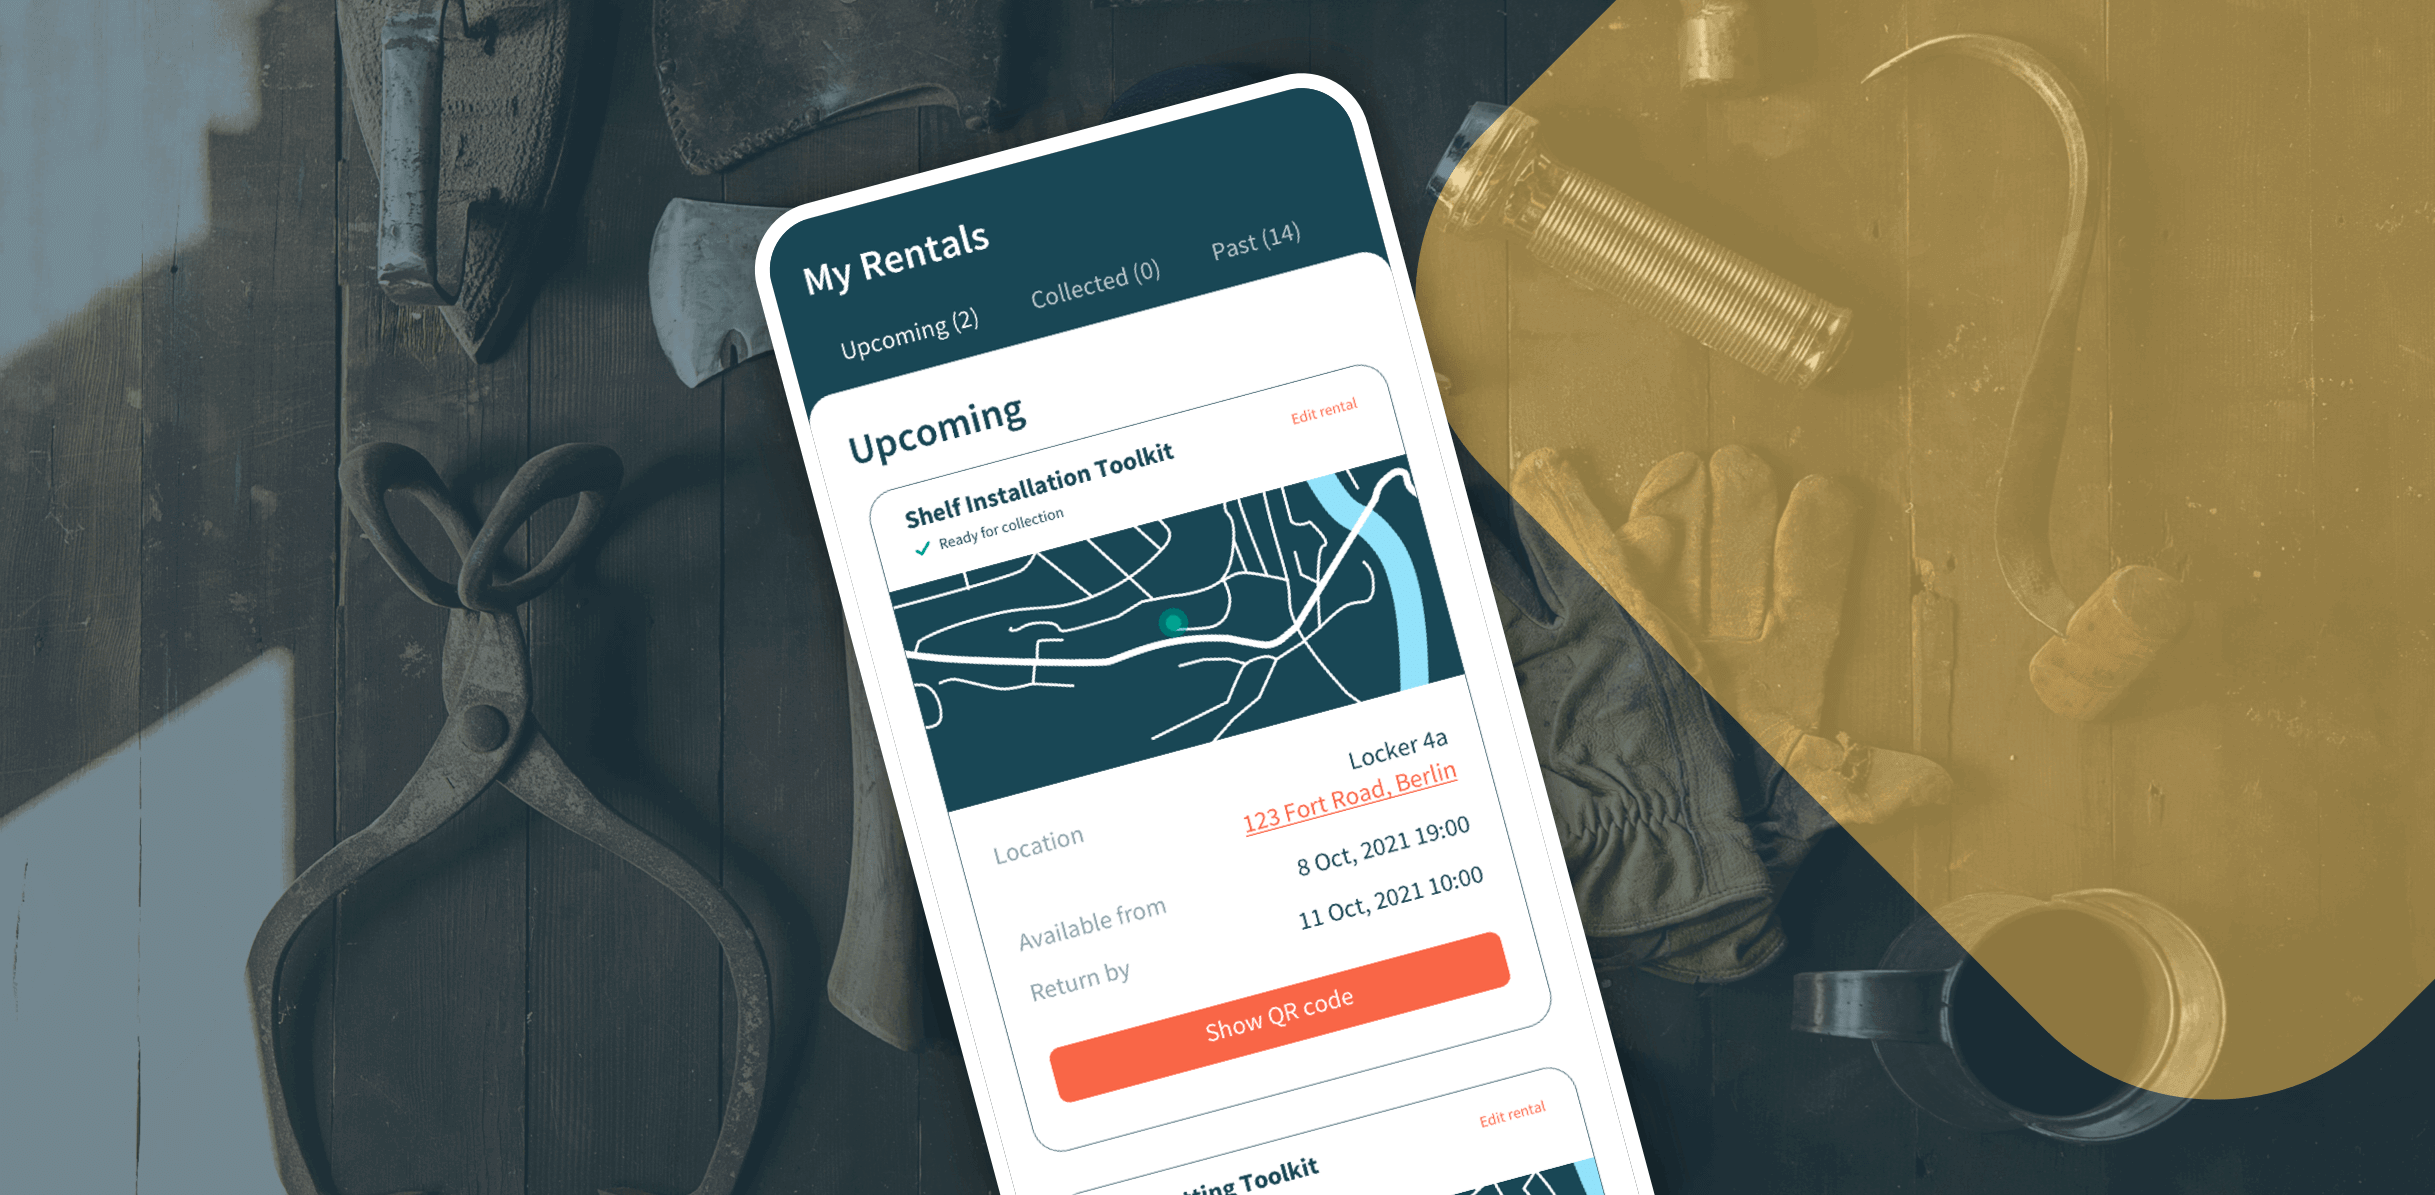
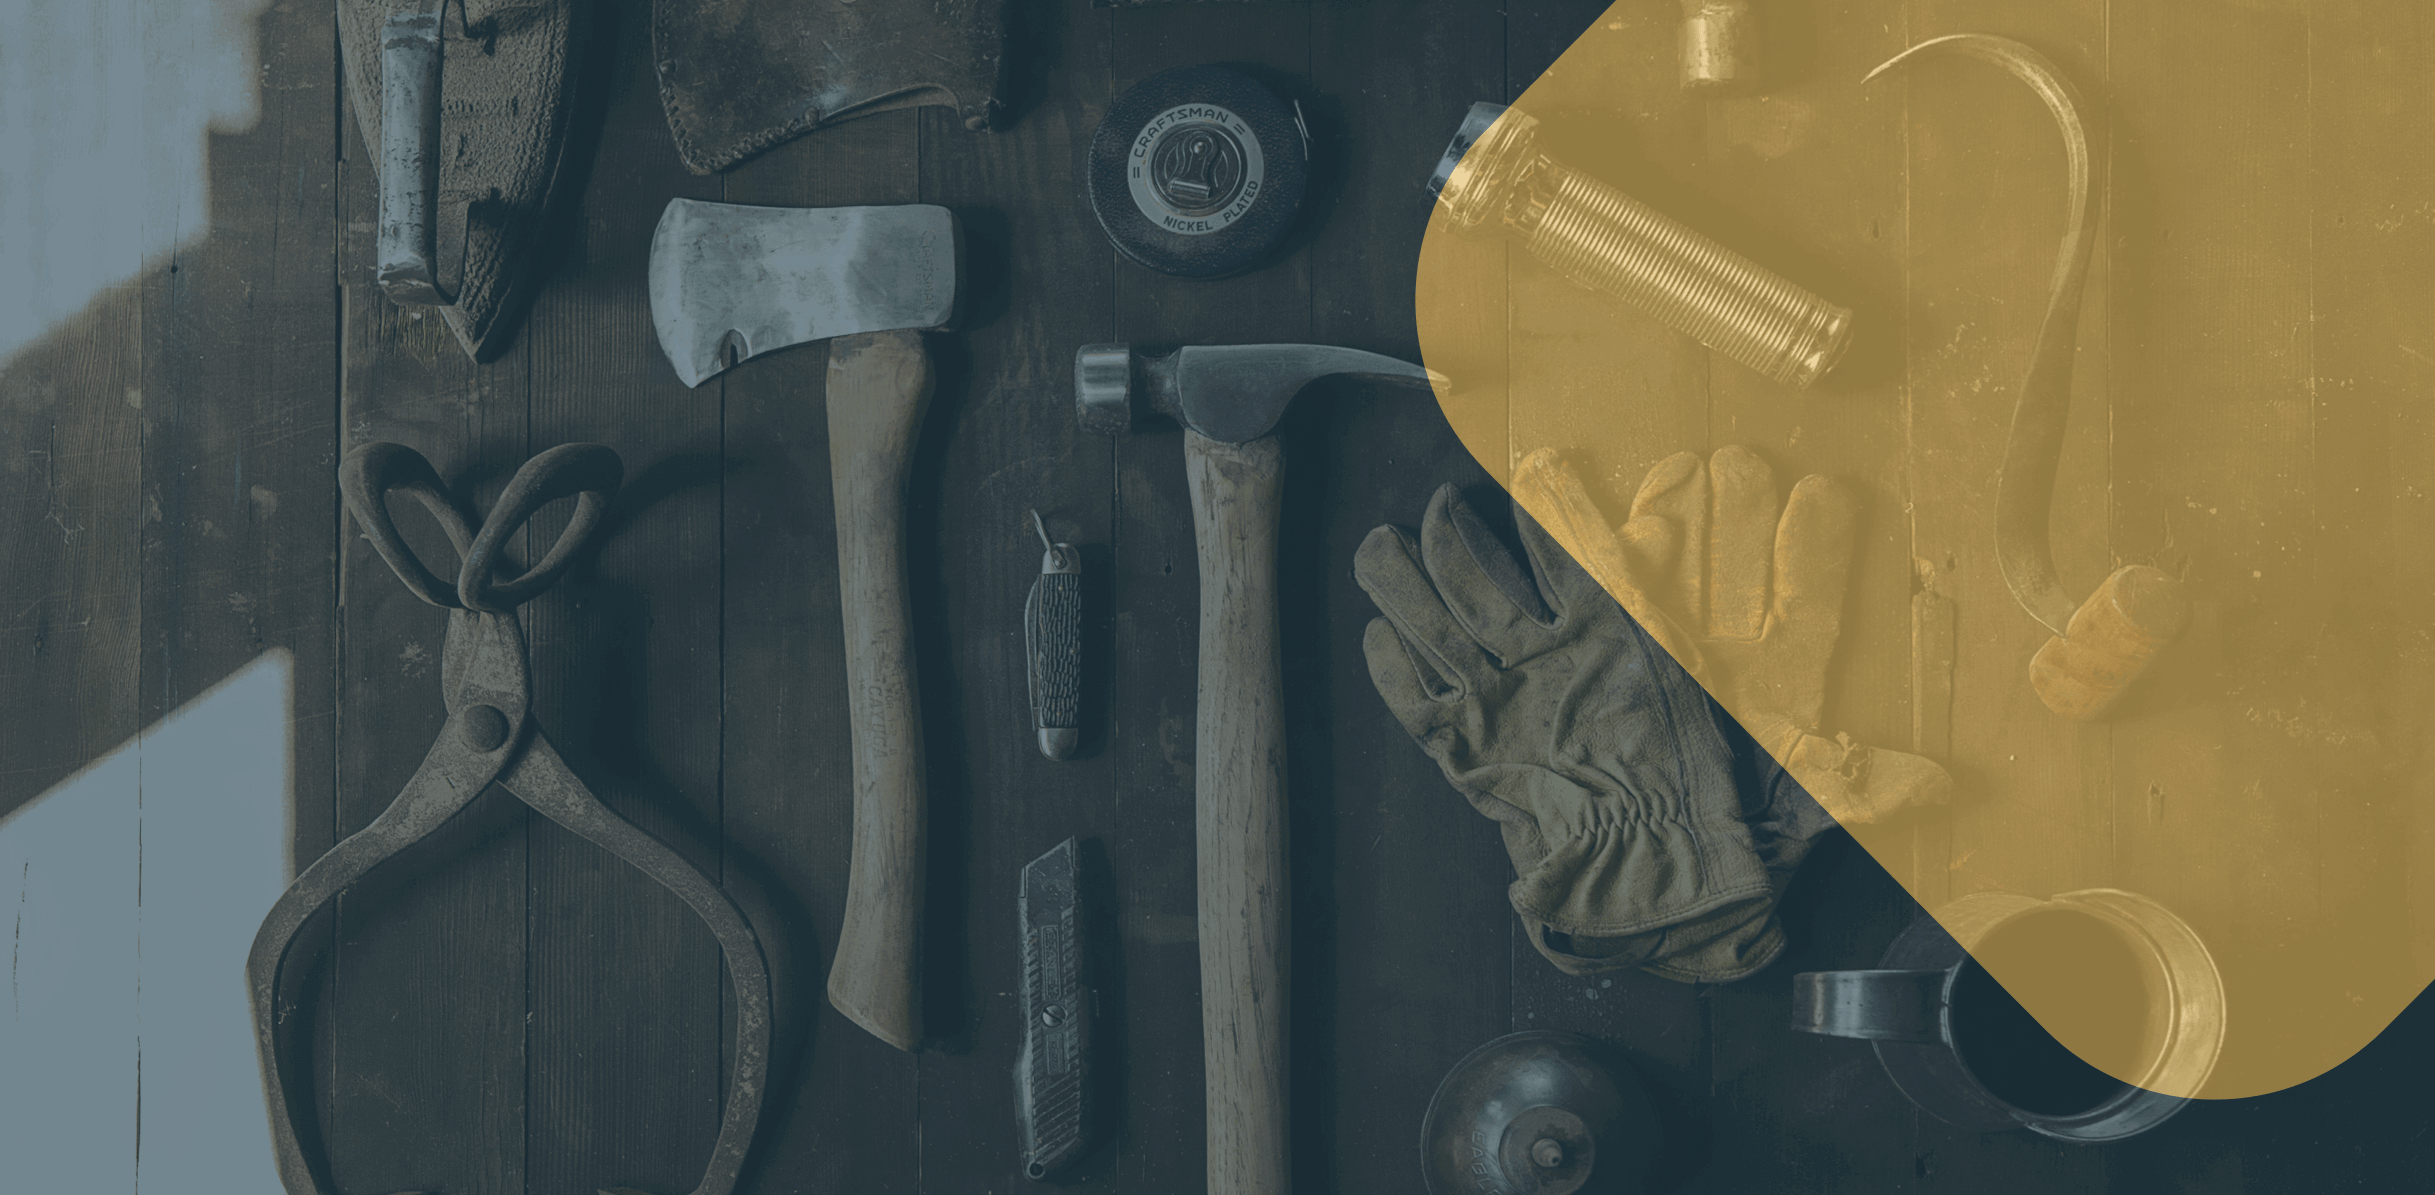
New case study layout

Changed region(s): [[0.3121, 0.0619, 0.6867, 1.0]]

diff --git a/pages/work/designflows.js b/pages/work/designflows.js
@@ -7,47 +7,58 @@ function CaseStudy() {
     return (
         <>
 
-            <div>                
-            <div className="container max-w-full h-[70vh] bg-[url('/dfbg.png')] bg-cover">
-            <div className="flex flex-row flex-wrap content-center max-w-screen-md mx-auto place-content-center h-full">
-                    <div className="flex flex-col">
+            <div>
+                <div className="container max-w-full h-[70vh] bg-[url('/dfbg.png')] bg-cover">
+                    <div className="flex flex-row flex-wrap content-center max-w-screen-md mx-auto place-content-center h-full">
+                        <div className="flex flex-col">
                             <Zoom>
-                                <Image src="/dfbg.png" layout="intrinsic" width="1600" height="750" alt="Small mock of end product" />
+                                <Image src="/dfMocks.png" layout="intrinsic" width="2911" height="1700" alt="Small mock of end product" />
                             </Zoom>
                         </div>
                     </div>
-                </div>                
+                </div>
                 <div className="container max-w-screen-md mx-auto px-6 pt-10 pb-10">
                     <div className="text-2xl md:text-5xl leading-7 tracking-tight font-semibold">Designflows</div>
                     <p className="pt-4">Homely &bull; 8 Oct 2021 7p.m. - 11 Oct 2021 9a.m.</p>
                 </div>
                 <div className="container max-w-screen-md mx-auto px-6">
                     <div className="grid grid-cols-1 md:grid-cols-4 gap-5 md:gap-10 auto-rows-auto mb-10">
-                    <div className="col-span-3">                            
-                        <p>This was a competion brief that had to be completed in weekend.</p>
-                        <p>I received access to the brief at 7pm Friday night and had to submit my high fidelity mocks by Monday at 9am.</p>
+                        <div className="col-span-3">
+                            <p>This was a competion brief that had to be completed in weekend.</p>
+                            <p>I received access to the brief at 7pm Friday night and had to submit my high fidelity mocks by Monday at 9am.</p>
                         </div>
-                        <div className="col-span-1">                                                  
-                            <p><b>Role:</b><br/> Sole UX designer</p>
-                            <p><b>Skills used:</b><br/> UX/UI<br/>User Research<br/>App icon design<br/>Poster design</p>
+                        <div className="col-span-1">
+                            <p><b>Role:</b><br /> Sole UX designer</p>
+                            <p><b>Skills used:</b><br /> UX/UI<br />User Research<br />App icon design<br />Poster design</p>
                         </div>
+                    </div>
+                </div>
+                <div className="bg-white">
+                    <div className="container max-w-screen-md mx-auto px-6">
+                        <div className="grid grid-cols-1 md:grid-cols-4 gap-5 md:gap-10 auto-rows-auto">
+
+                            <div className="col-span-4 py-10 mt-16">
+                                <center>
+                                <Zoom>
+                                    <Image src="/designflows.png" layout="intrinsic" width="197" height="107" alt="Designflows 2021 logo" />
+                                </Zoom>
+                                </center>
+                                <h2 className="pt-16">Overview</h2>
+                                <p>The brief requested a new mobile app to be designed to allow a user to hire a toolkit from a location nearby for a specific DIY task.</p>
+                                <p>For example I may need to put some shelves up, I would visit this app and find a location to pick up a toolkit containing the required tools.</p>
+                                <p>The brief specified 3 specific pages that required designing:</p>
+                                <p>&bull; <b>Toolkit rental</b> - This had to include a search bar<br />
+                                    &bull; <b>My rentals</b> - Manage and track bookings<br />
+                                    &bull; <b>How it works</b> - Instructions on how to collect a toolkit</p>
+                                <p className="mb-16">As well as an app icon and a poster that would present the screens.</p>
+                            </div>
                         </div>
-                        </div>  
-                        <div className="container max-w-screen-md mx-auto px-6">
+                    </div>
+                </div>
+                <div className="container max-w-screen-md mx-auto px-6">
                     <div className="grid grid-cols-1 md:grid-cols-4 gap-5 md:gap-10 auto-rows-auto">
-                        
-                        <div className="col-span-4 pb-10">                   
-                            <center><Zoom>
-                                <Image src="/designflows.png" layout="intrinsic" width="394" height="214" alt="Designflows 2021 logo" />
-                            </Zoom></center>
-                            <h2 className="pt-16">Overview</h2>
-                            <p>The brief requested a new mobile app to be designed to allow a user to hire a toolkit from a location nearby for a specific DIY task.</p>
-                            <p>For example I may need to put some shelves up, I would visit this app and find a location to pick up a toolkit containing the required tools.</p>
-                            <p>The brief specified 3 specific pages that required designing:</p>
-                            <p>&bull; <b>Toolkit rental</b> - This had to include a search bar<br />
-                                &bull; <b>My rentals</b> - Manage and track bookings<br />
-                                &bull; <b>How it works</b> - Instructions on how to collect a toolkit</p>
-                            <p className="mb-16">As well as an app icon and a poster that would present the screens.</p>
+
+                        <div className="col-span-4 py-10 mt-16">
                             <h2>Plan of action</h2>
                             <p>This project was going to be a lot of work, and there was not much time to do it. I decided to spend the friday evening reading through the brief multiple times, I printed the document off and highlighted key points.</p>
                             <p className="mb-16">Once happy I understood what was being asked for I began making a to do list. This would help me work methodically and would make sure I covered everything required of me during this weekend.</p>
@@ -60,28 +71,44 @@ function CaseStudy() {
                             <Zoom>
                                 <Image src="/compResearch.png" layout="intrinsic" width="2000" height="944" alt="Identifying key components in competitor / similar applications allowed me to begun gathering a list of potential components that would be needed." />
                             </Zoom>
-                            <h2 className="pt-16">Brand identity</h2>
+                            </div>
+                    </div>
+                </div>
+                <div className="bg-white">
+                    <div className="container max-w-screen-md mx-auto px-6">
+                        <div className="grid grid-cols-1 md:grid-cols-4 gap-5 md:gap-10 auto-rows-auto">
+
+                            <div className="col-span-4 py-16">
+                            <h2>Brand identity</h2>
                             <p>I decided to spend some time inventing a brand identiy for this project. It meant I was able to create a simple pattern library that I could then deploy much quicker into the final design.</p>
                             <p className="mb-16">I mainly focused on the colour palette and typography. I settled on something that was fairly simple but offered a level of uniqueness.</p>
                             <Zoom>
                                 <Image src="/brandID.png" layout="intrinsic" width="2000" height="1040" alt="Identifying key components in competitor / similar applications allowed me to begun gathering a list of potential components that would be needed." />
                             </Zoom>
-                            <h2 className="pt-16">Initial ideas</h2>
+                            </div>
+                        </div>
+                    </div>
+                </div>
+                <div className="container max-w-screen-md mx-auto px-6">
+                    <div className="grid grid-cols-1 md:grid-cols-4 gap-5 md:gap-10 auto-rows-auto">
+
+                        <div className="col-span-4 pb-10 mt-16">
+                            <h2>Initial ideas</h2>
                             <p>Now I had a basic pattern library I decided to start sketching out some ideas for my app.</p>
                             <p>I had a lot of ideas at this stage and ended up working out a full user flow, even though I would only be working on a couple of screens, this likely cost me some time, but it meant I identified some extra details I could use to enhance the app.</p>
                             <p>I begun with some really rough sketches that I could then iterate on if I felt they had enough potential. This allowed me to complete a lot more sketches in a much shorter amount of time.</p>
                             <p className="mb-16">By Saturday evening I was confident that I had created a sketch that I could work with. I decided to take a break at this point until the next day.</p>
                             <div className="pb-16">
-                            <Zoom>
-                                <Image src="/sketch.png" layout="intrinsic" width="1421" height="1000" alt="An example of sketches completed for the first screen of the app" />
-                            </Zoom>
+                                <Zoom>
+                                    <Image src="/sketch.png" layout="intrinsic" width="1421" height="1000" alt="An example of sketches completed for the first screen of the app" />
+                                </Zoom>
                             </div>
                             <div className="max-w-full bg-yellow-500 rounded-lg p-10">
                                 <h2>Mockups</h2>
-                                    <p>Sunday morning I decided to get an early start, I spent a large chunk of the day working on the hi-fidelity mock ups for the required screens. Even though I wasnt completing a full app I wanted to make sure that it could be added to in the future easily and still make sense.</p>  
-                                        <Zoom>
-                                            <Image src="/appMocks.png" layout="intrinsic" width="1365" height="879" alt="Preview of how the app mocks were looking" />
-                                        </Zoom>
+                                <p>Sunday morning I decided to get an early start, I spent a large chunk of the day working on the hi-fidelity mock ups for the required screens. Even though I wasnt completing a full app I wanted to make sure that it could be added to in the future easily and still make sense.</p>
+                                <Zoom>
+                                    <Image src="/appMocks.png" layout="intrinsic" width="1365" height="879" alt="Preview of how the app mocks were looking" />
+                                </Zoom>
                             </div>
                             <h2 className="pt-16">App icon</h2>
                             <p>The last major part of the project to complete on sunday afternoon was the app icon. This was an area of the project I struggled with. I have not had to design an app icon before which meant there was a bit of learning curve.</p>
@@ -99,35 +126,37 @@ function CaseStudy() {
                             <Zoom>
                                 <Image src="/appStoreMock.png" layout="intrinsic" width="1024" height="1757" alt="Final icon design" />
                             </Zoom>
-                            <h2 className="pt-16">Outcome</h2>
+                            </div>
+                    </div>
+                </div>
+                <div className="bg-white">
+                    <div className="container max-w-screen-md mx-auto px-6">
+                        <div className="grid grid-cols-1 md:grid-cols-4 gap-5 md:gap-10 auto-rows-auto">
+
+                            <div className="col-span-4 py-16">
+                            <h2>Outcome</h2>
                             <p>Overall I am happy with the result. However, I wish I had more time to perfect this.</p>
                             <p className="mb-16">The initial area I would have spent more time on would have been the research phase, I would have liked to have gained a better understanding of the competitor landscape. The addition of user interviews would have also assisted in the research and the end result. I also think I could of come up with a more refined color palette and framework for the project, but this may of been a stretch to achieve given the time constraint.</p>
                             <Zoom>
                                 <Image src="/dfFinal.png" layout="intrinsic" width="1403" height="931" alt="Designflows final submission 2021" />
                             </Zoom>
+                            
                             <h2 className="pt-16">Final thoughts</h2>
                             <p>The competition was fun, and I will be looking out for the event again later this year. However, in the meantime I will take the judges feedback onboard and possibly revisit this project at a later date to try and improve the final result.</p>
-
-                        </div>
-                    </div>
-                </div>
-                <hr className="container mx-auto  h-px border-t-0 bg-slate-300" />
-                <div className="container max-w-screen-md mx-auto">
-                    <div className="flex flex-row flex-wrap">
-                        <div className="flex flex-col flex-1 group cursor-pointer text-center justify-items-end content-end">
+                            <br/><br/><br/>
                             <Link href="/">
-                                <div className="pt-10 pb-4">
-                                    <div className="group-hover:text-indigo-500 ease-in-out duration-300">
+                                <div className="pt-10 pb-4 underline">
+                                    <div className="hover:text-indigo-500 ease-in-out duration-300">
                                         <p>Back to home page</p>
                                     </div>
                                 </div>
                             </Link>
+                            </div>
                         </div>
-                       
                     </div>
-                </div>
-               
-                </div>
+                </div>                
+
+            </div>
         </>
     )
 }

diff --git a/components/navbar.js b/components/navbar.js
@@ -34,7 +34,7 @@ function NavBar() {
     <motion.div className="container max-w-screen-lg mx-auto text-gray-700 py-3" variants={navVariants} initial="hidden" animate="visible">
       <div className="flex md:justify-between md:flex-row flex-col items-center">
             <Link href="https://www.tomspencer.design">
-              <motion.a href="https://www.tomspencer.design" className="text-gray-700 font-semibold text-2xl py-2 px-4 mx-2 cursor-pointer" variants={navChild}>Tom Spencer.</motion.a>
+              <motion.a href="https://www.tomspencer.design" className="text-gray-700 font-semibold text-2xl py-2 px-4 mx-2 cursor-pointer md:leading-none" variants={navChild}>Tom Spencer<br/><span className="text-base font-normal">UX Designer</span></motion.a>
             </Link>
             <nav className="self-center">
               <ul className="inline-block">

diff --git a/components/footer.js b/components/footer.js
@@ -1,8 +1,8 @@
 function Footer() {
     return <>
-        <div className="bg-slate-100">
+        <div className="">
             <div className="container mx-auto text-gray-700 pb-6">
-                <hr className="mb-6 h-px border-t-0 bg-slate-300" />
+                <hr className="mb-6 h-px border-t-0 " />
                 <div className="flex flex-col">
                     <div className="text-sm text-center">
                         Designed and built by Tom Spencer - 2023
